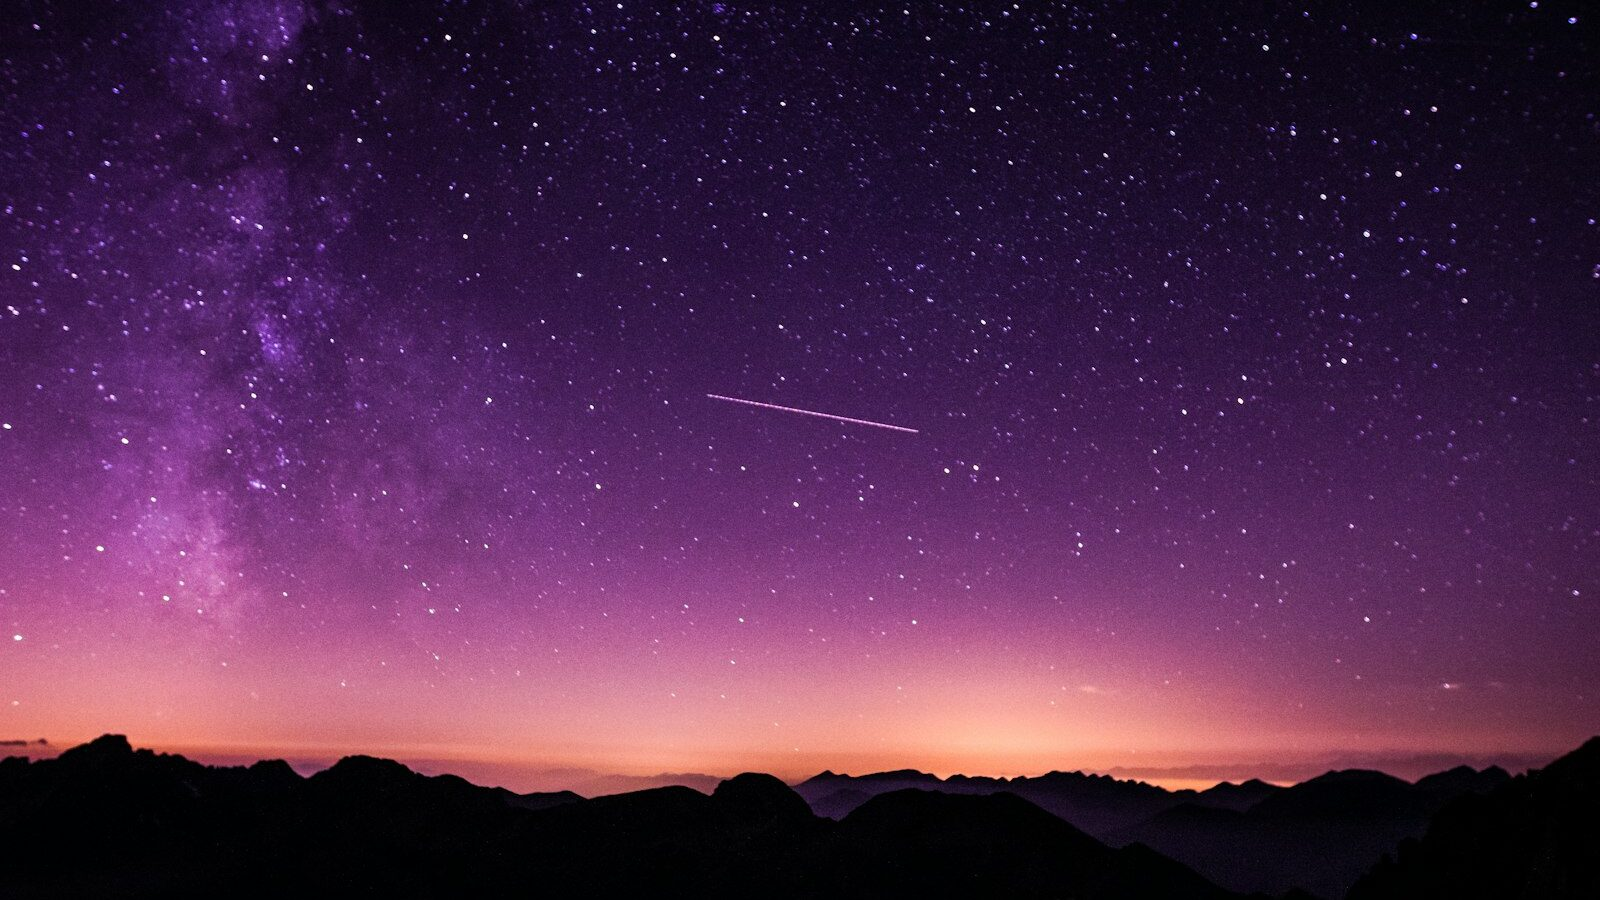
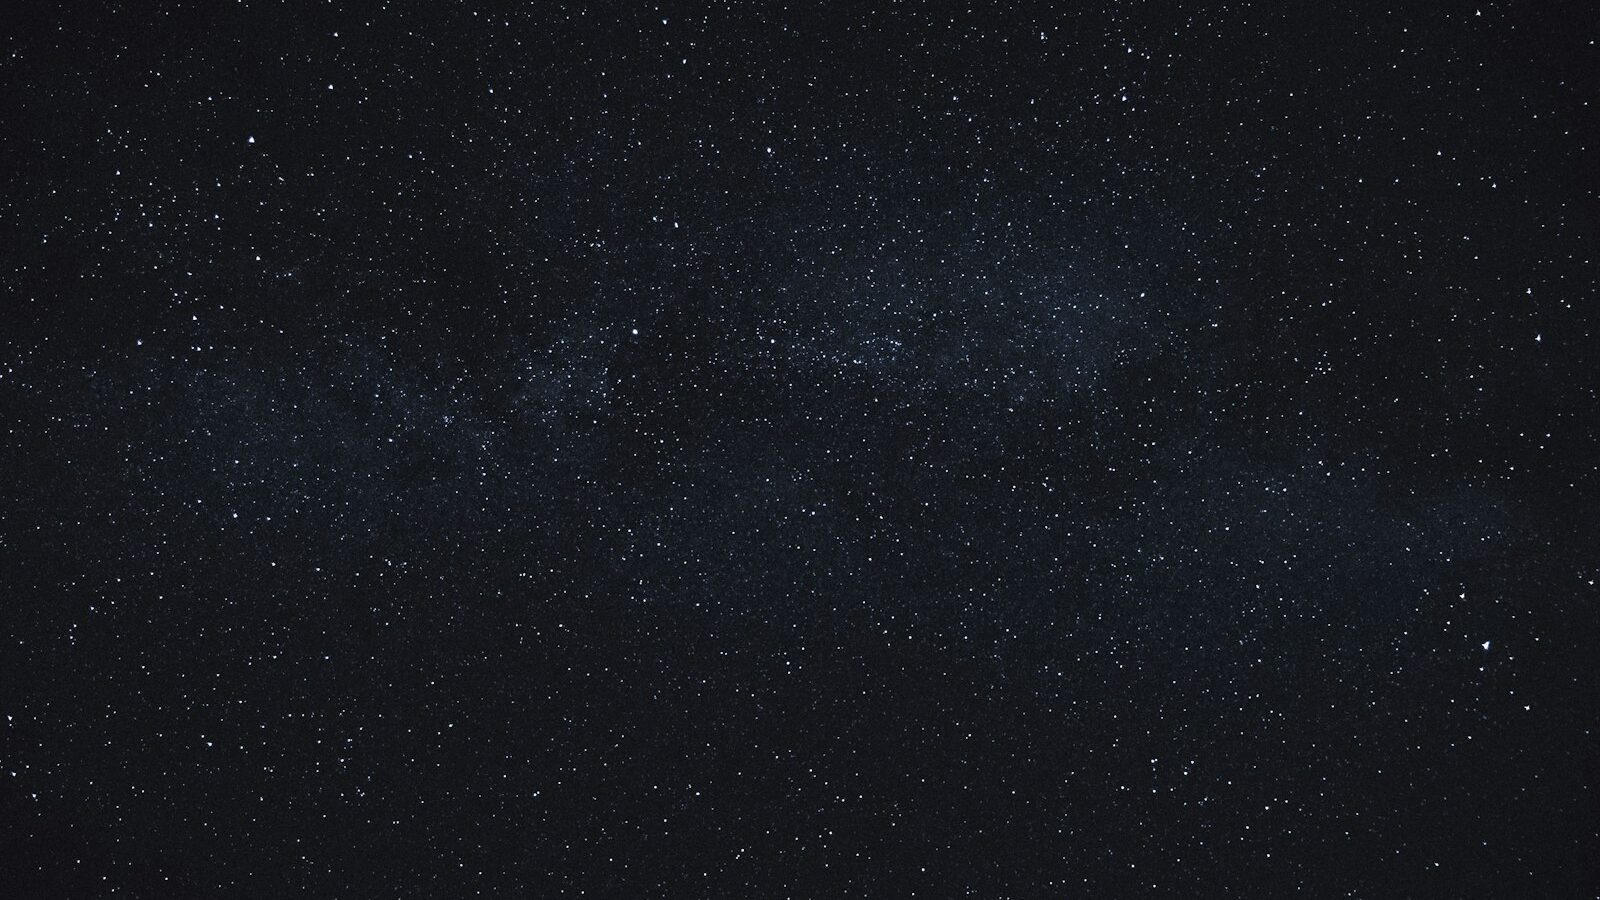
Natal cosmos band: swap to a clean streak-free starfield
The previous photo had a satellite/meteor trail crossing the band that
read as a stray scratch under the quote. Replace with a uniform navy
starfield and retune image opacity + overlay for legibility.

diff --git a/natal-chart-reading/index.html b/natal-chart-reading/index.html
@@ -248,9 +248,9 @@
     <picture>
       <source srcset="../assets/img/natal-cosmos.webp" type="image/webp">
       <img src="../assets/img/natal-cosmos.jpg" width="1600" height="900" loading="lazy" alt=""
-           style="position:absolute;inset:0;width:100%;height:100%;object-fit:cover;object-position:center 28%;opacity:.42">
+           style="position:absolute;inset:0;width:100%;height:100%;object-fit:cover;object-position:center;opacity:.55">
     </picture>
-    <div aria-hidden="true" style="position:absolute;inset:0;background:linear-gradient(180deg,rgba(10,17,46,.82),rgba(10,17,46,.66))"></div>
+    <div aria-hidden="true" style="position:absolute;inset:0;background:linear-gradient(180deg,rgba(10,17,46,.7),rgba(10,17,46,.52))"></div>
     <div class="container" style="position:relative;z-index:1;text-align:center;max-width:820px">
       <svg viewBox="0 0 24 24" width="30" height="30" fill="currentColor" aria-hidden="true" style="color:var(--c-gold-soft);margin:0 auto 1.2rem"><path d="M12 2l2.4 6.9H22l-6 4.4 2.3 7L12 16l-6.3 4.3 2.3-7-6-4.4h7.6z"/></svg>
       <p style="font-family:var(--font-display);font-size:clamp(1.5rem,1.2rem+1.6vw,2.3rem);line-height:1.3;color:#fff;max-width:none;margin-inline:auto;text-wrap:balance">